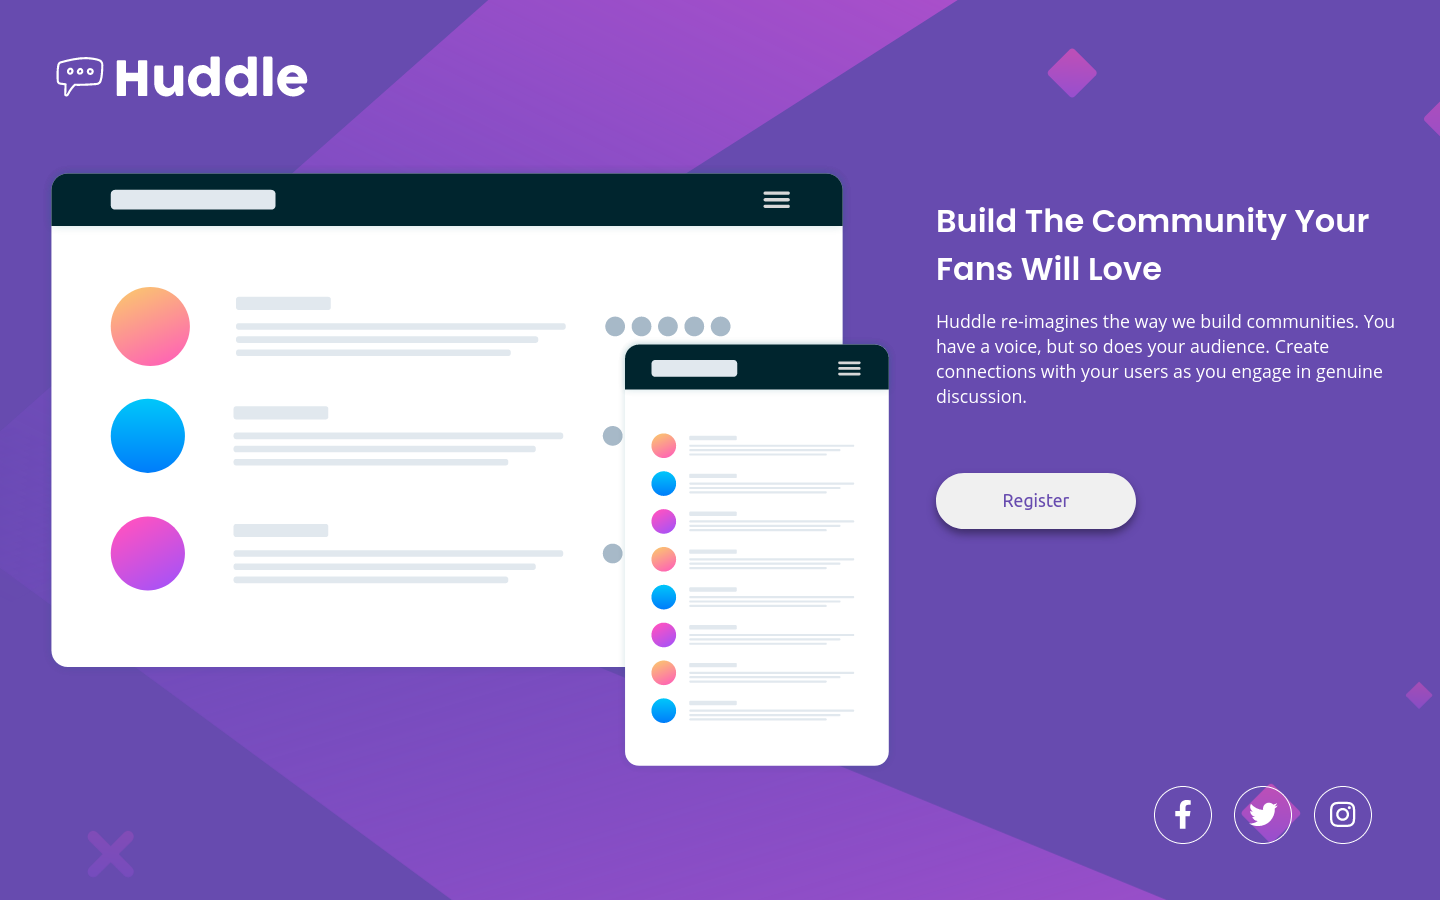
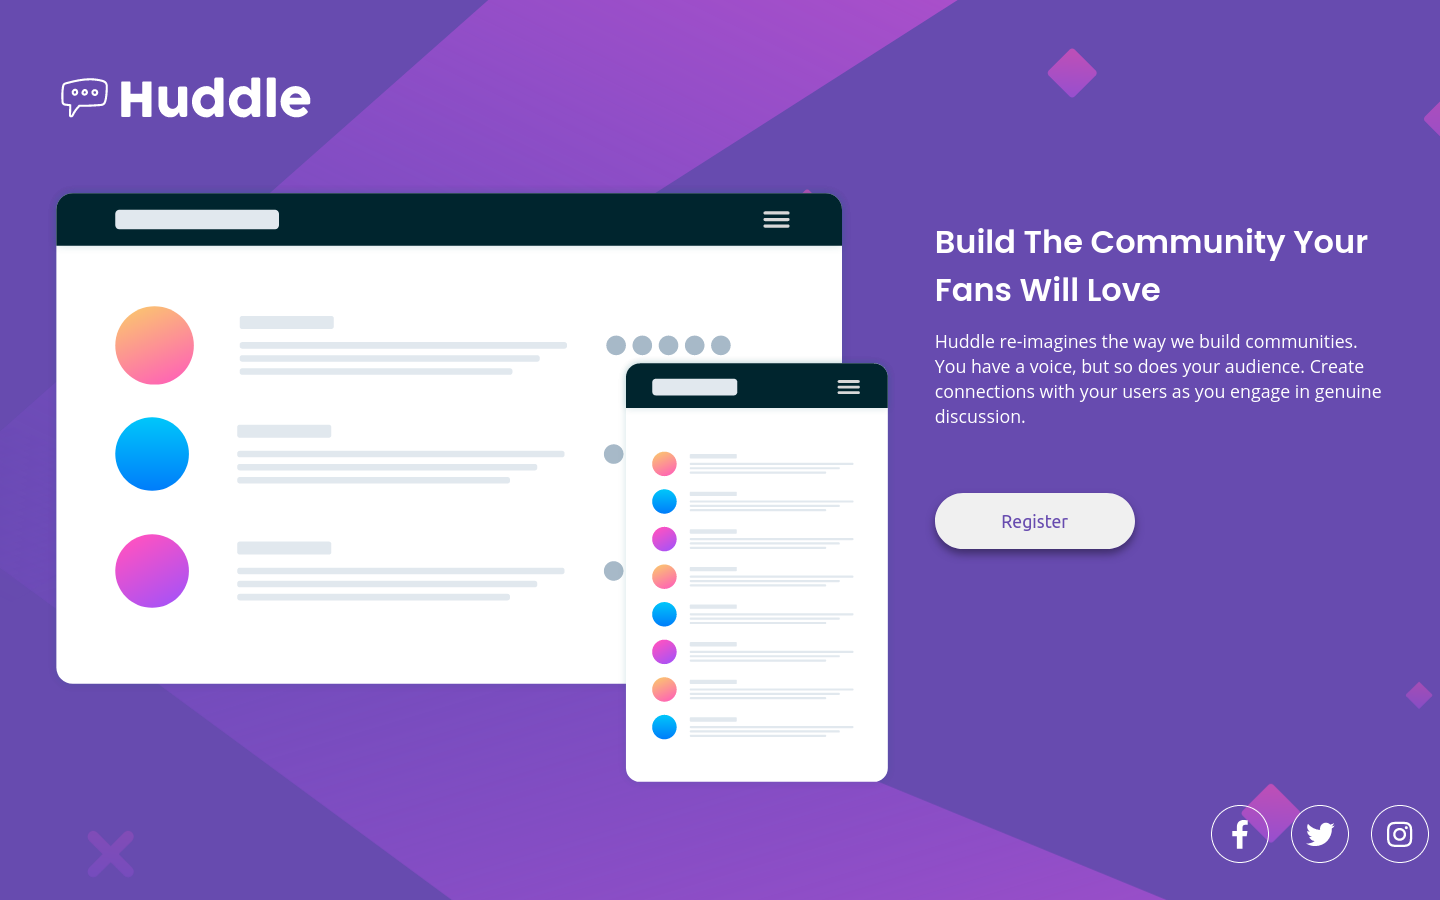
Finished project whit some ichues, need to check other ways to work whit this especic project to find a better solution

diff --git a/style.css b/style.css
@@ -173,9 +173,11 @@ header {
   }
 
   .page-container {
-    max-width: 1280px;
+    max-width: 1440px;
     height: 90vh;
-    margin: 1rem;
+    margin: auto;
+    margin-top: 4rem;
+    padding: 0 3rem;
     position: relative;
   }
 
@@ -215,10 +217,13 @@ header {
   }
 
   .social {
-    width: 20%;
+    width: 30%;
     position: absolute;
-    right: -0.1rem;
-    bottom: -0.1rem;
+    right: 0;
+    bottom: 0;
+    display: flex;
+    flex-direction: row;
+    justify-content: right;
   }
 
   .icon {
